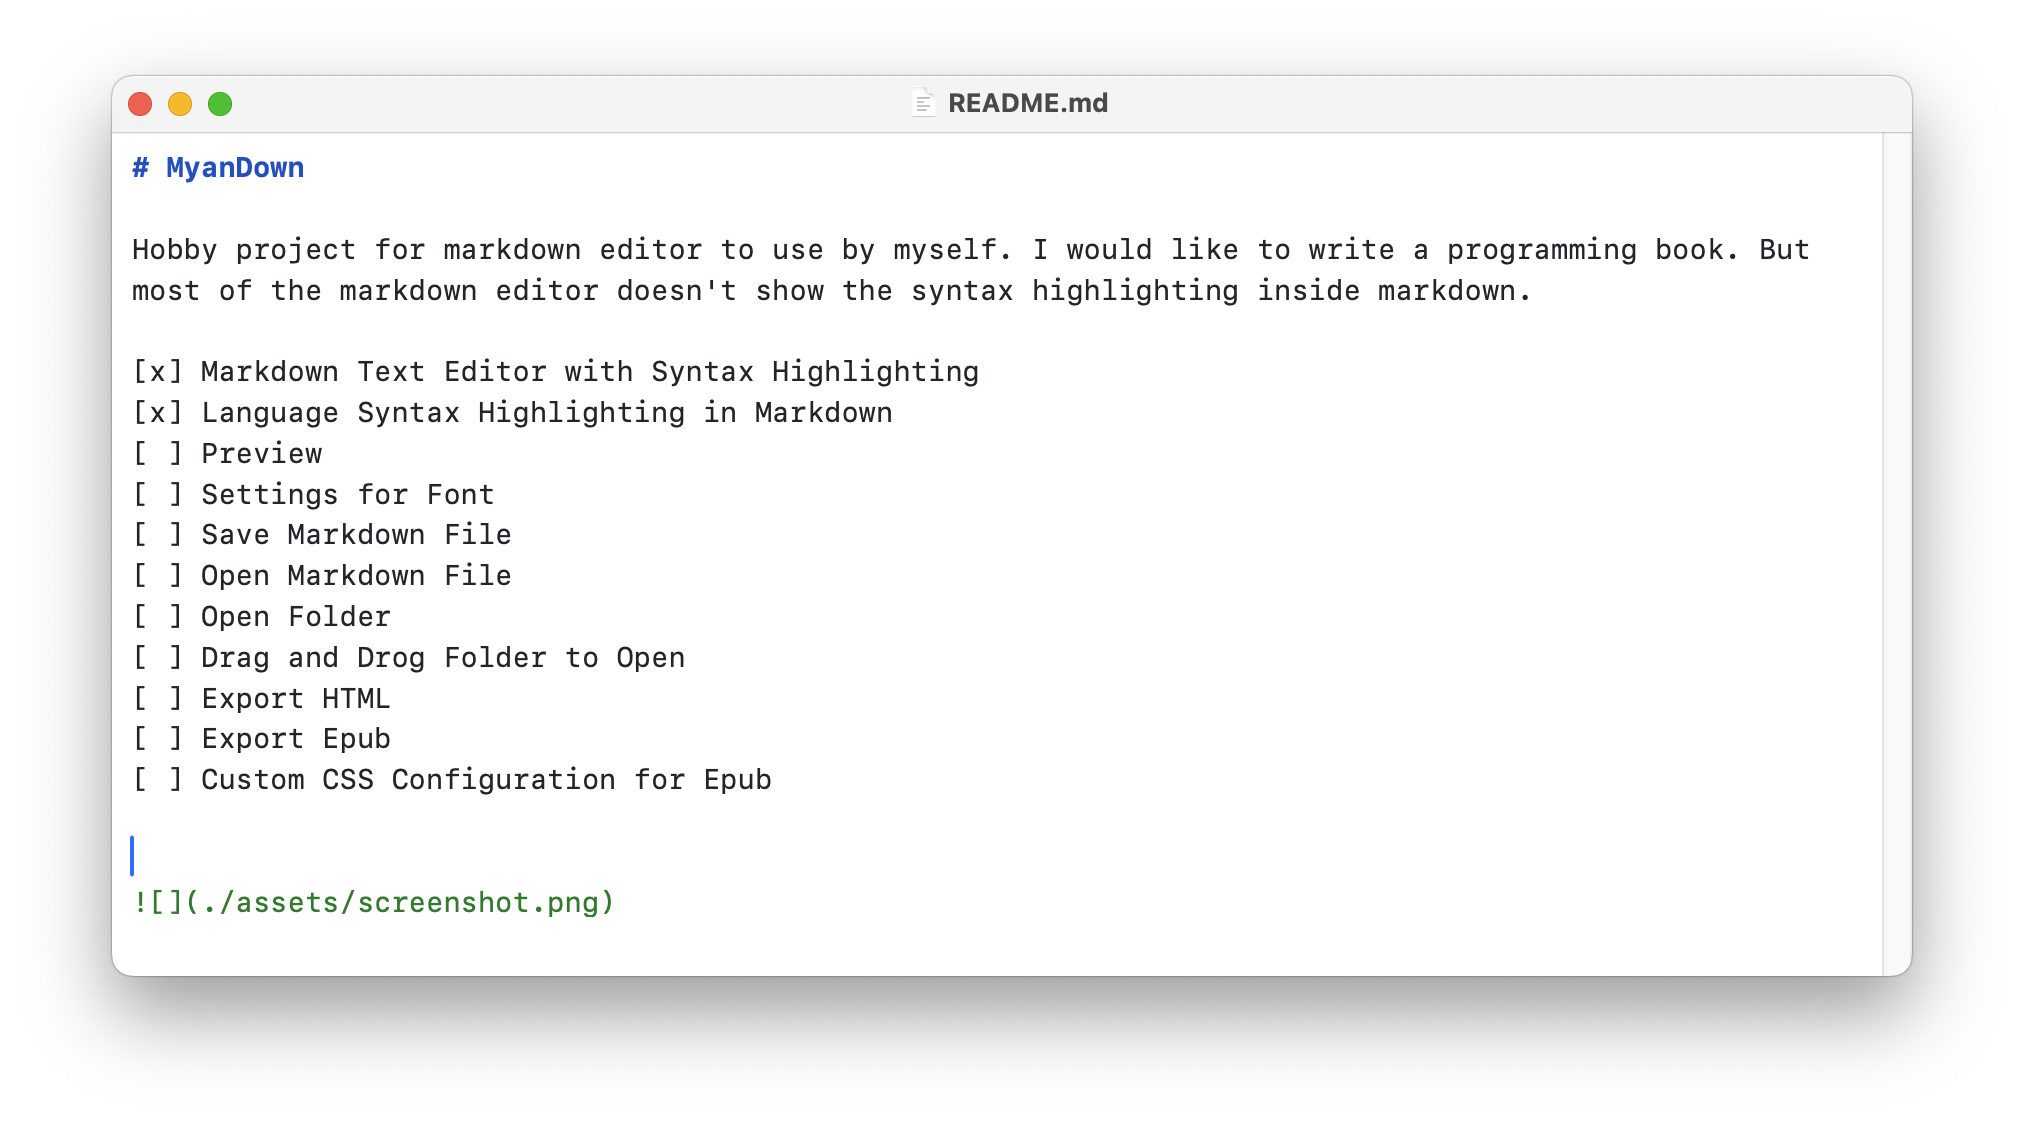
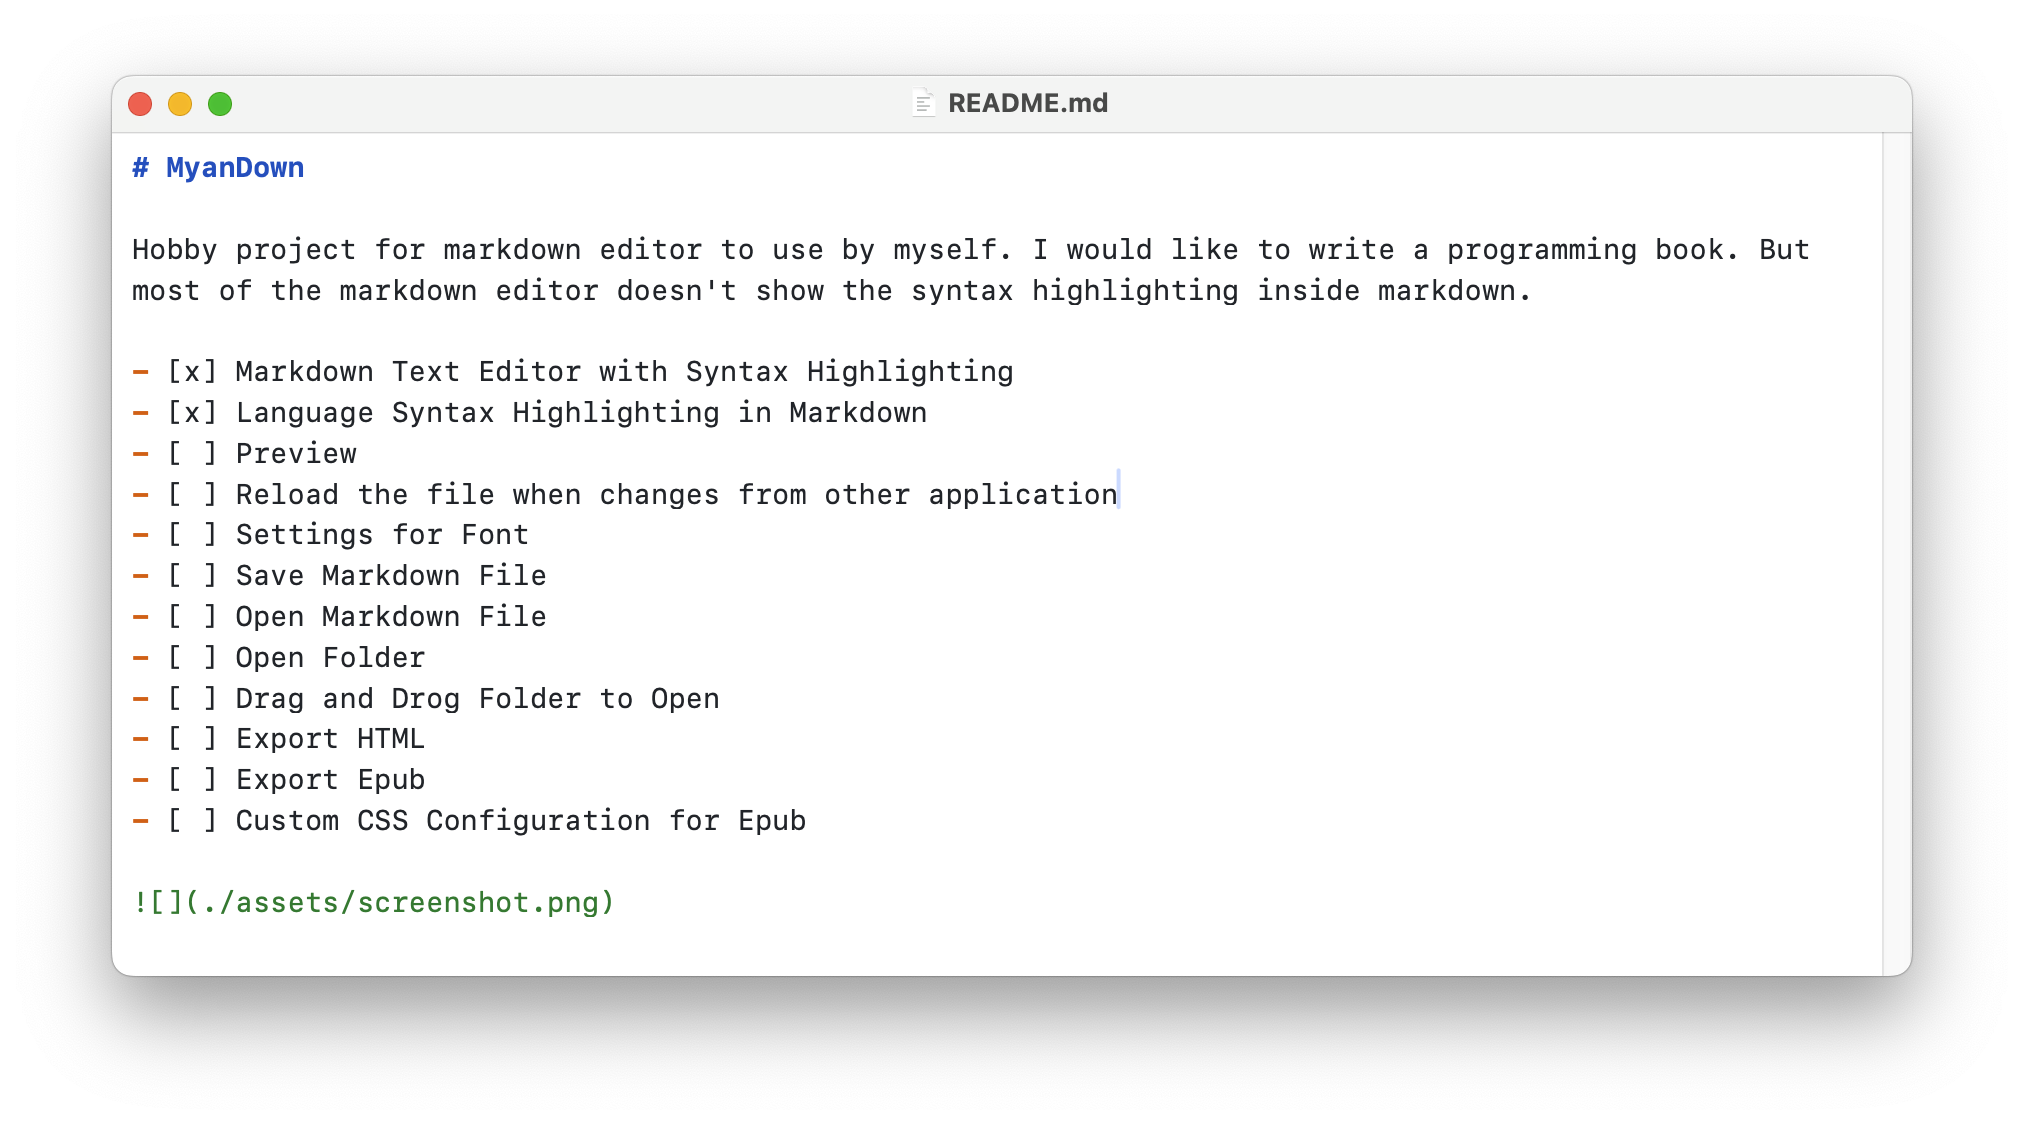
fixed readme

Changed region(s): [[0.0623, 0.3114, 0.5603, 0.7473]]

diff --git a/README.md b/README.md
@@ -2,17 +2,17 @@
 
 Hobby project for markdown editor to use by myself. I would like to write a programming book. But most of the markdown editor doesn't show the syntax highlighting inside markdown.
 
-[x] Markdown Text Editor with Syntax Highlighting
-[x] Language Syntax Highlighting in Markdown
-[ ] Preview
-[ ] Settings for Font
-[ ] Save Markdown File
-[ ] Open Markdown File
-[ ] Open Folder
-[ ] Drag and Drog Folder to Open
-[ ] Export HTML
-[ ] Export Epub
-[ ] Custom CSS Configuration for Epub
-
+- [x] Markdown Text Editor with Syntax Highlighting
+- [x] Language Syntax Highlighting in Markdown
+- [ ] Preview
+- [ ] Reload the file when changes from other application
+- [ ] Settings for Font
+- [ ] Save Markdown File
+- [ ] Open Markdown File
+- [ ] Open Folder
+- [ ] Drag and Drog Folder to Open
+- [ ] Export HTML
+- [ ] Export Epub
+- [ ] Custom CSS Configuration for Epub
 
 ![](./assets/screenshot.png)
